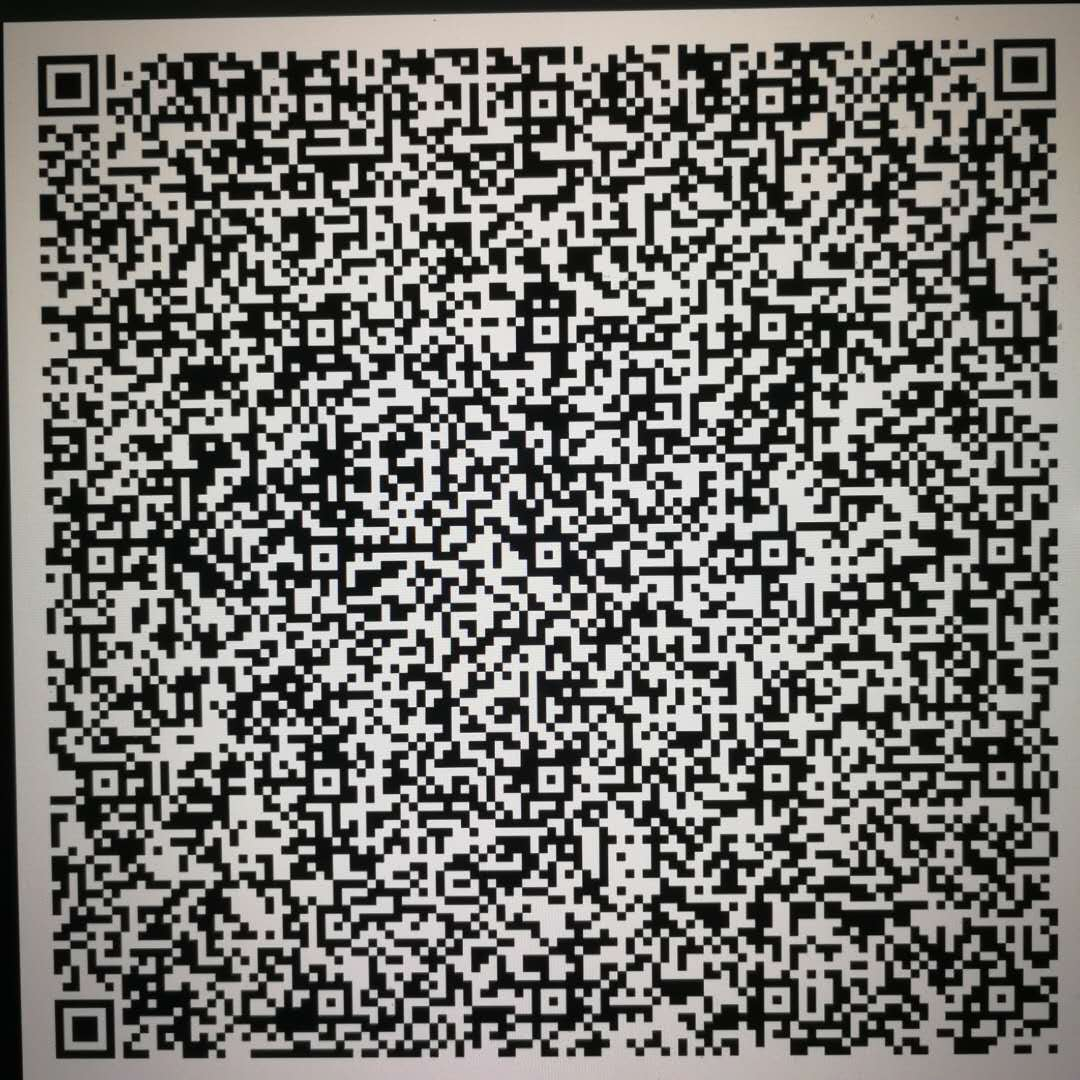
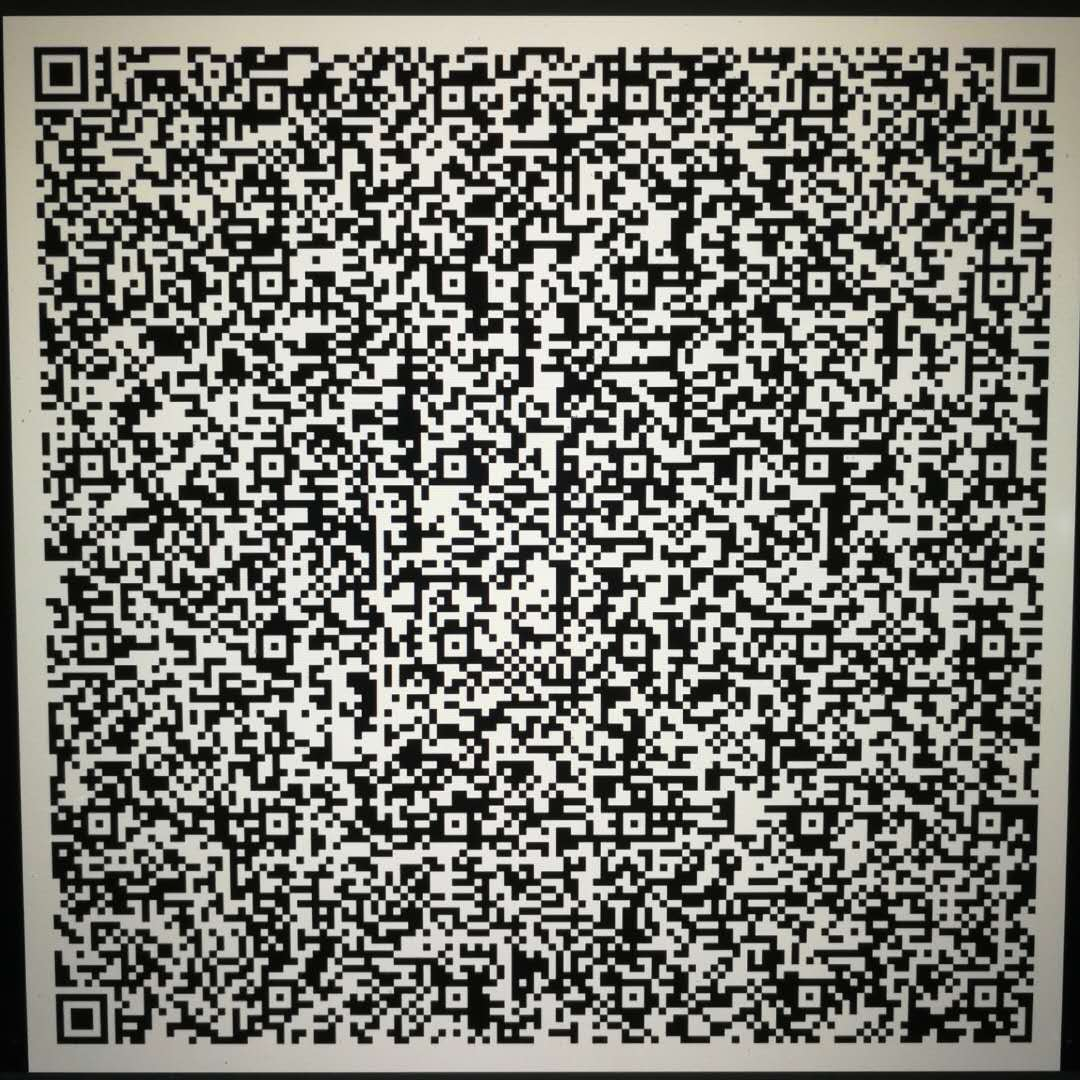
store file name

diff --git a/convert.py b/convert.py
@@ -71,6 +71,11 @@ class DecoderUtil(CommonUtils):
             data_effective = data[self.idx_byte:]
         return data_effective, idx
 
+    @staticmethod
+    def bytes_to_file_name(b):
+        d = [x for x in b if x != 0]
+        return bytes(d).decode()
+
 
 class EncoderUtil(CommonUtils):
     def __init__(self, ops):
@@ -97,12 +102,22 @@ class EncoderUtil(CommonUtils):
         return index_array
 
     @staticmethod
+    def path_to_bytes(path):
+        path = os.path.split(path)[1]
+        b = path.encode()
+        for _ in range(256 - len(b)):
+            b += b'\x00'
+        return b
+
+    @staticmethod
     def byte_array_to_string(b):
         return base64.b64encode(zlib.compress(bytes(b)))
 
     def create_chunks(self):
         with open(self.input, 'rb') as f:
             byte_array = f.read()
+        # add file name here
+        byte_array = self.path_to_bytes(self.input) + byte_array
         byte_array = zlib.compress(byte_array)
         i = 0
         file_counter = 0
@@ -111,7 +126,7 @@ class EncoderUtil(CommonUtils):
         while i < len(byte_array):
             # check chunk length not to exceed 2^(8*idx_byte) files
             if file_counter >= 2 ** (self.idx_byte * 8):
-                raise OverflowError('number of images is [{}] > {}!'.format(len(chunks), 2 ** (self.idx_byte * 8)))
+                raise OverflowError(f'number of images is [{len(chunks)}] > {2 ** (self.idx_byte * 8)}!')
             if (i + self.idx_byte) % (self.chunk_size - self.idx_byte) == 0:
                 chunks.append(self.index_to_byte(file_counter) + bucket)
                 bucket = []
@@ -183,7 +198,7 @@ class QR2File(DecoderUtil):
                 continue
             else:
                 return data
-        print('[{}] cannot be decoded, please replace it with new image!'.format(path))
+        print(f'[{path}] cannot be decoded, please replace it with new image!')
         return None
 
     def extract_helper(self, f):
@@ -194,7 +209,7 @@ class QR2File(DecoderUtil):
             return
         data = data[0].data
         data_effective, idx = self.get_data(data)
-        print('[{}] has been analyzed ~'.format(f))
+        print(f'[{f}] has been analyzed ~')
         export_path = os.path.join(self.input, str(idx))
         if not os.path.exists(export_path):
             with open(export_path, 'wb') as w:
@@ -231,9 +246,18 @@ class QR2File(DecoderUtil):
         data_rebuild = zlib.decompress(data_rebuild)
 
         print('-' * 50)
+        # extract file name
+        file_name = self.bytes_to_file_name(data_rebuild[:256])
+        data_rebuild = data_rebuild[256:]
+        if os.path.isdir(self.output):
+            self.output = os.path.join(self.output, file_name)
+        else:
+            os.makedirs(os.path.dirname(self.output), exist_ok=True)
+            self.output = os.path.join(os.path.dirname(self.output),
+                                       os.path.split(self.output)[1] + os.path.splitext(file_name)[1])
         with open(self.output, 'wb') as w:
             w.write(data_rebuild)
-        print('[{}] has been exported ~'.format(self.output))
+        print(f'[{self.output}] has been exported ~')
 
 
 class File2QR(EncoderUtil):
@@ -265,10 +289,10 @@ class File2QR(EncoderUtil):
             names = os.listdir(self.output)
             if len(names) != 0:
                 while True:
-                    check = input('the folder is not empty, do you with to remove them [y/n]: ')
+                    check = input('the folder is not empty, do you wish to remove them [y/n]: ')
                     if check == '':
                         continue
-                    if check.strip().lower() in ['yes', 'yeah', 'yep', 'y']:
+                    if check.strip().lower() in ['yes', 'y']:
                         shutil.rmtree(self.output)
                         os.makedirs(self.output)
                         return
@@ -290,7 +314,7 @@ class File2QR(EncoderUtil):
         compressed = self.byte_array_to_string(chunk)
         path = os.path.join(self.output, 't' + str(i) + '.png')
         self.prepare_qr_code_image(compressed, path)
-        print('[{}] has been export successfully ~'.format(path))
+        print(f'[{path}] has been export successfully ~')
 
     def export_qr_code(self):
         chunks_raw = self.create_chunks()
@@ -314,7 +338,7 @@ class File2QR(EncoderUtil):
         # remove used image
         for i in img_arr:
             os.remove(i)
-        print('[{}] has been merged successfully ~'.format(out_path))
+        print(f'[{out_path}] has been merged successfully ~')
 
     def convert_image_color_space(self, in_path, out_path):
         img = Image.open(in_path).convert('L')
@@ -345,7 +369,7 @@ class File2QR(EncoderUtil):
                 in_path = os.path.join(self.output, 't' + str(j) + '.png')
                 out_path = os.path.join(self.output, str(i) + self.out_format)
                 self.convert_image_color_space(in_path, out_path)
-                print('[{}] color has been converted successfully ~'.format(out_path))
+                print(f'[{out_path}] color has been converted successfully ~')
                 i += 1
 
 
@@ -353,7 +377,7 @@ if __name__ == '__main__':
     parser = argparse.ArgumentParser(description='convert file to qr code')
     # argument for project
     parser.add_argument('--input', '-i', type=str, help='the source', default='demo')
-    parser.add_argument('--output', '-o', type=str, help='the target', default='mozart_11.mid')
+    parser.add_argument('--output', '-o', type=str, help='the target', default=os.path.abspath('.'))
     parser.add_argument('--chunk_size', '-s', type=int, help='chunk size to encode', default=2048)
     parser.add_argument('--cpu_number', '-j', type=int, help='cpu number to process', default=0)
 
@@ -367,14 +391,14 @@ if __name__ == '__main__':
     args = parser.parse_args()
 
     if os.path.exists(args.input) and os.path.isfile(args.input):
-        print('now encoding from [{}] to [{}] ~'.format(args.input, args.output))
+        print(f'now encoding from [{args.input}] to [{args.output}] ~')
         print('-' * 50)
         f2qr = File2QR(args)
         f2qr.export_qr_code()
         if not args.black_white:
             f2qr.replace_with_merged_image()
     elif os.path.exists(args.input) and os.path.isdir(args.input):
-        print('now decoding from [{}] to [{}] ~'.format(args.input, args.output))
+        print(f'now decoding from [{args.input}] to [{args.output}] ~')
         print('-' * 50)
         qr2f = QR2File(args)
         if not args.black_white:

diff --git a/README.md b/README.md
@@ -25,6 +25,8 @@ The system libary of `libzbar` is also needed (ubuntu: `apt-get install libzbar-
 Type `python convert.py -i demo -o mozart_11.mid`, it decodes one or multiple qr-code images from the folder `demo` to the `mid` music file -- `mozart_11.mid` is the *Mozart Piano Sonata No.11 (first part)* I played.
 
 Of course, the script `python convert.py -o demo -i mozart_11.mid` is the reverse way of encoding back from the file to multiple qr-code images.
+
+Since the file name are also stored in the qr-code, for the decoding part, if the output is the folder, the program will restore the file within this folder. Namely, type `python convert.py -i demo -o <folder>`, the `mozart_11.mid` file will appear within `<folder>`.
 ## Disclaimer
 This project can only be used under the law of the state or country from any user.
 
